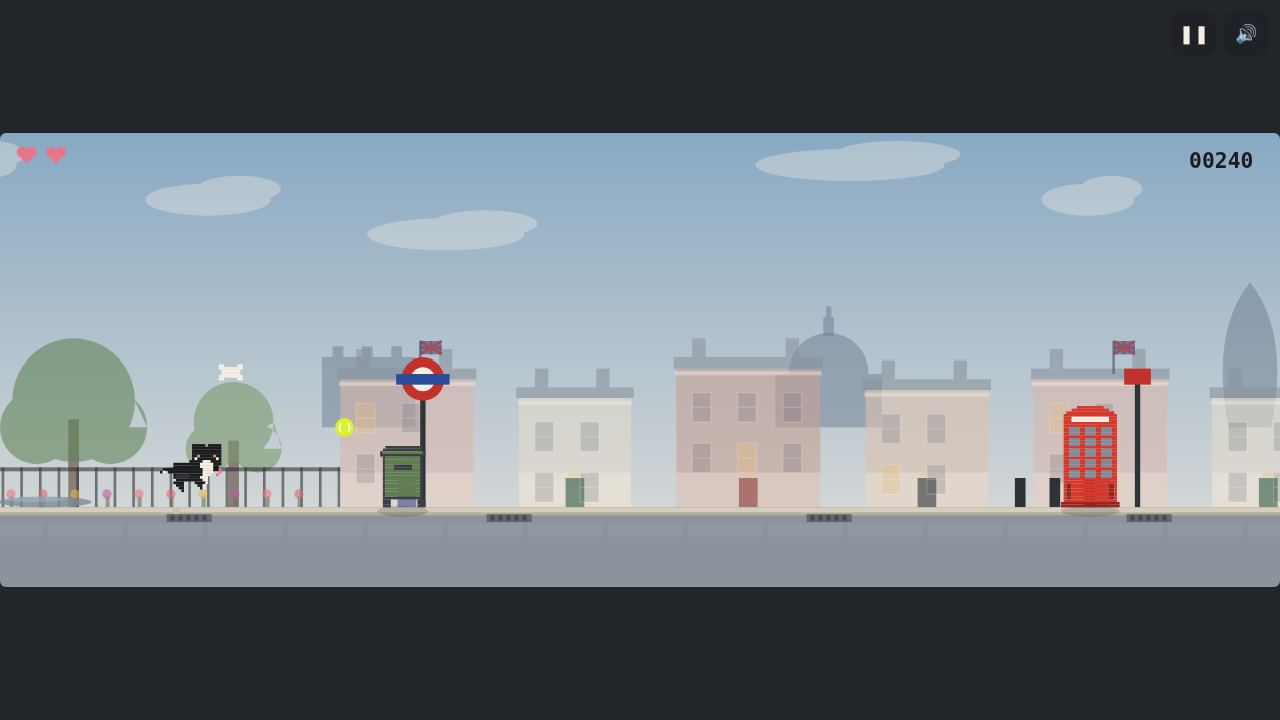
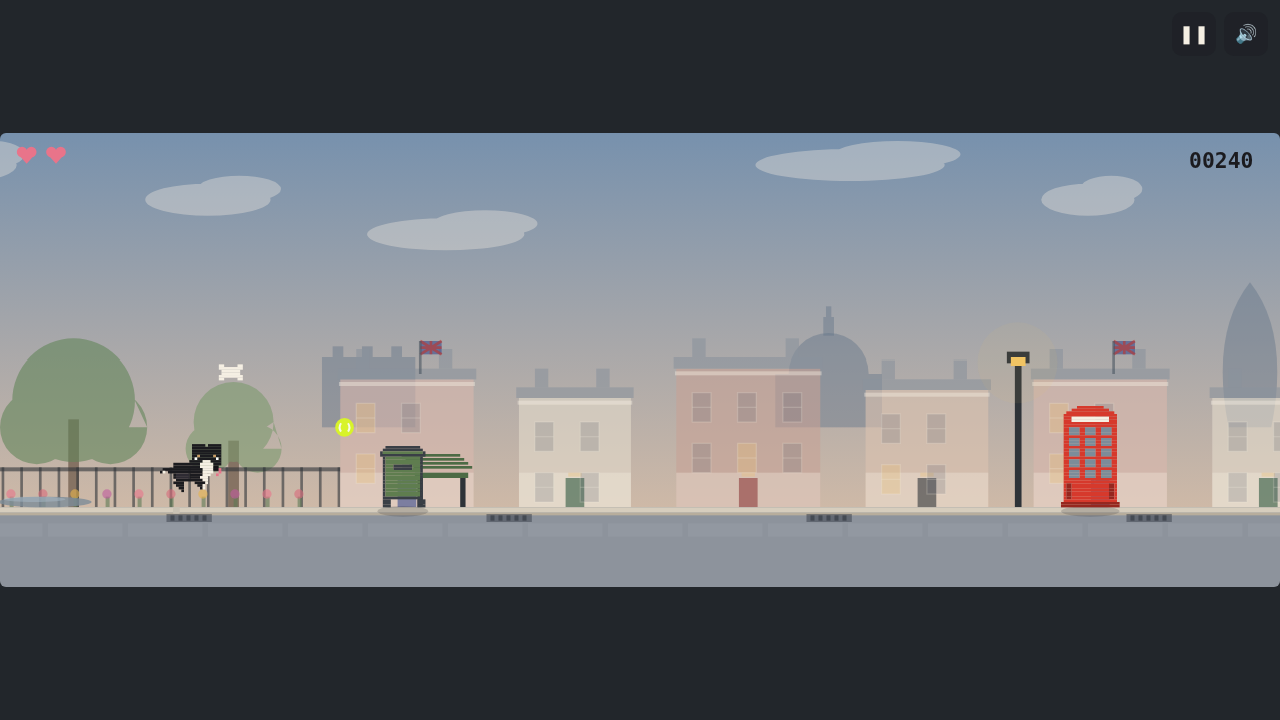
feat: faster repeating day/night cycle, remove pillar boxes

diff --git a/src/world/parallax.js b/src/world/parallax.js
@@ -189,18 +189,6 @@ function drawFurniture(ctx, x, variant, t, duskT) {
       ctx.fillRect(x + 82, baseY - 104, 20, 12);
       break;
     }
-    case 5: { // Royal Mail pillar box
-      ctx.fillStyle = '#D6392C';
-      ctx.fillRect(x + 6, baseY - 40, 20, 40);
-      ctx.beginPath();
-      ctx.arc(x + 16, baseY - 40, 10, Math.PI, 0);
-      ctx.fill();
-      ctx.fillStyle = '#96271F';
-      ctx.fillRect(x + 9, baseY - 32, 14, 3);
-      ctx.fillStyle = '#2E3338';
-      ctx.fillRect(x + 4, baseY - 4, 24, 4);
-      break;
-    }
     case 4: { // Park bench
       ctx.fillStyle = '#4C6B45';
       for (let i = 0; i < 4; i++) ctx.fillRect(x + i * 3, baseY - 40 + i * 3, 44, 2);
@@ -268,11 +256,11 @@ export class Parallax {
     ctx.restore();
 
     // Layer 4: street furniture
-    const fOff = ((this.scroll * 0.75) % (FURN_TILE * 6) + FURN_TILE * 6) % (FURN_TILE * 6);
+    const fOff = ((this.scroll * 0.75) % (FURN_TILE * 5) + FURN_TILE * 5) % (FURN_TILE * 5);
     for (let i = -1; i <= Math.ceil(LOGICAL_WIDTH / FURN_TILE) + 4; i++) {
       const worldIdx = Math.floor((this.scroll * 0.75) / FURN_TILE) + i;
       const x = i * FURN_TILE - (fOff % FURN_TILE);
-      const variant = ((worldIdx % 6) + 6) % 6;
+      const variant = ((worldIdx % 5) + 5) % 5;
       if (x > -120 && x < LOGICAL_WIDTH + 120) drawFurniture(ctx, x, variant, t, duskT);
     }
 

diff --git a/src/game.js b/src/game.js
@@ -429,8 +429,9 @@ export class Game {
   // --- Rendering ---
   render(ctx, alpha) {
     const speedFrac = (this.speed - C.SPEED_START) / (C.SPEED_MAX - C.SPEED_START);
-    // Day drift: dusk at 1500+
-    const duskT = Math.min(1, this.score / 1800);
+    // Day/night cycle: night falls by ~500 points, dawn returns by ~1000, repeating
+    const dayPhase = (this.score % 1000) / 1000;
+    const duskT = 0.5 - 0.5 * Math.cos(dayPhase * Math.PI * 2);
 
     ctx.save();
 
